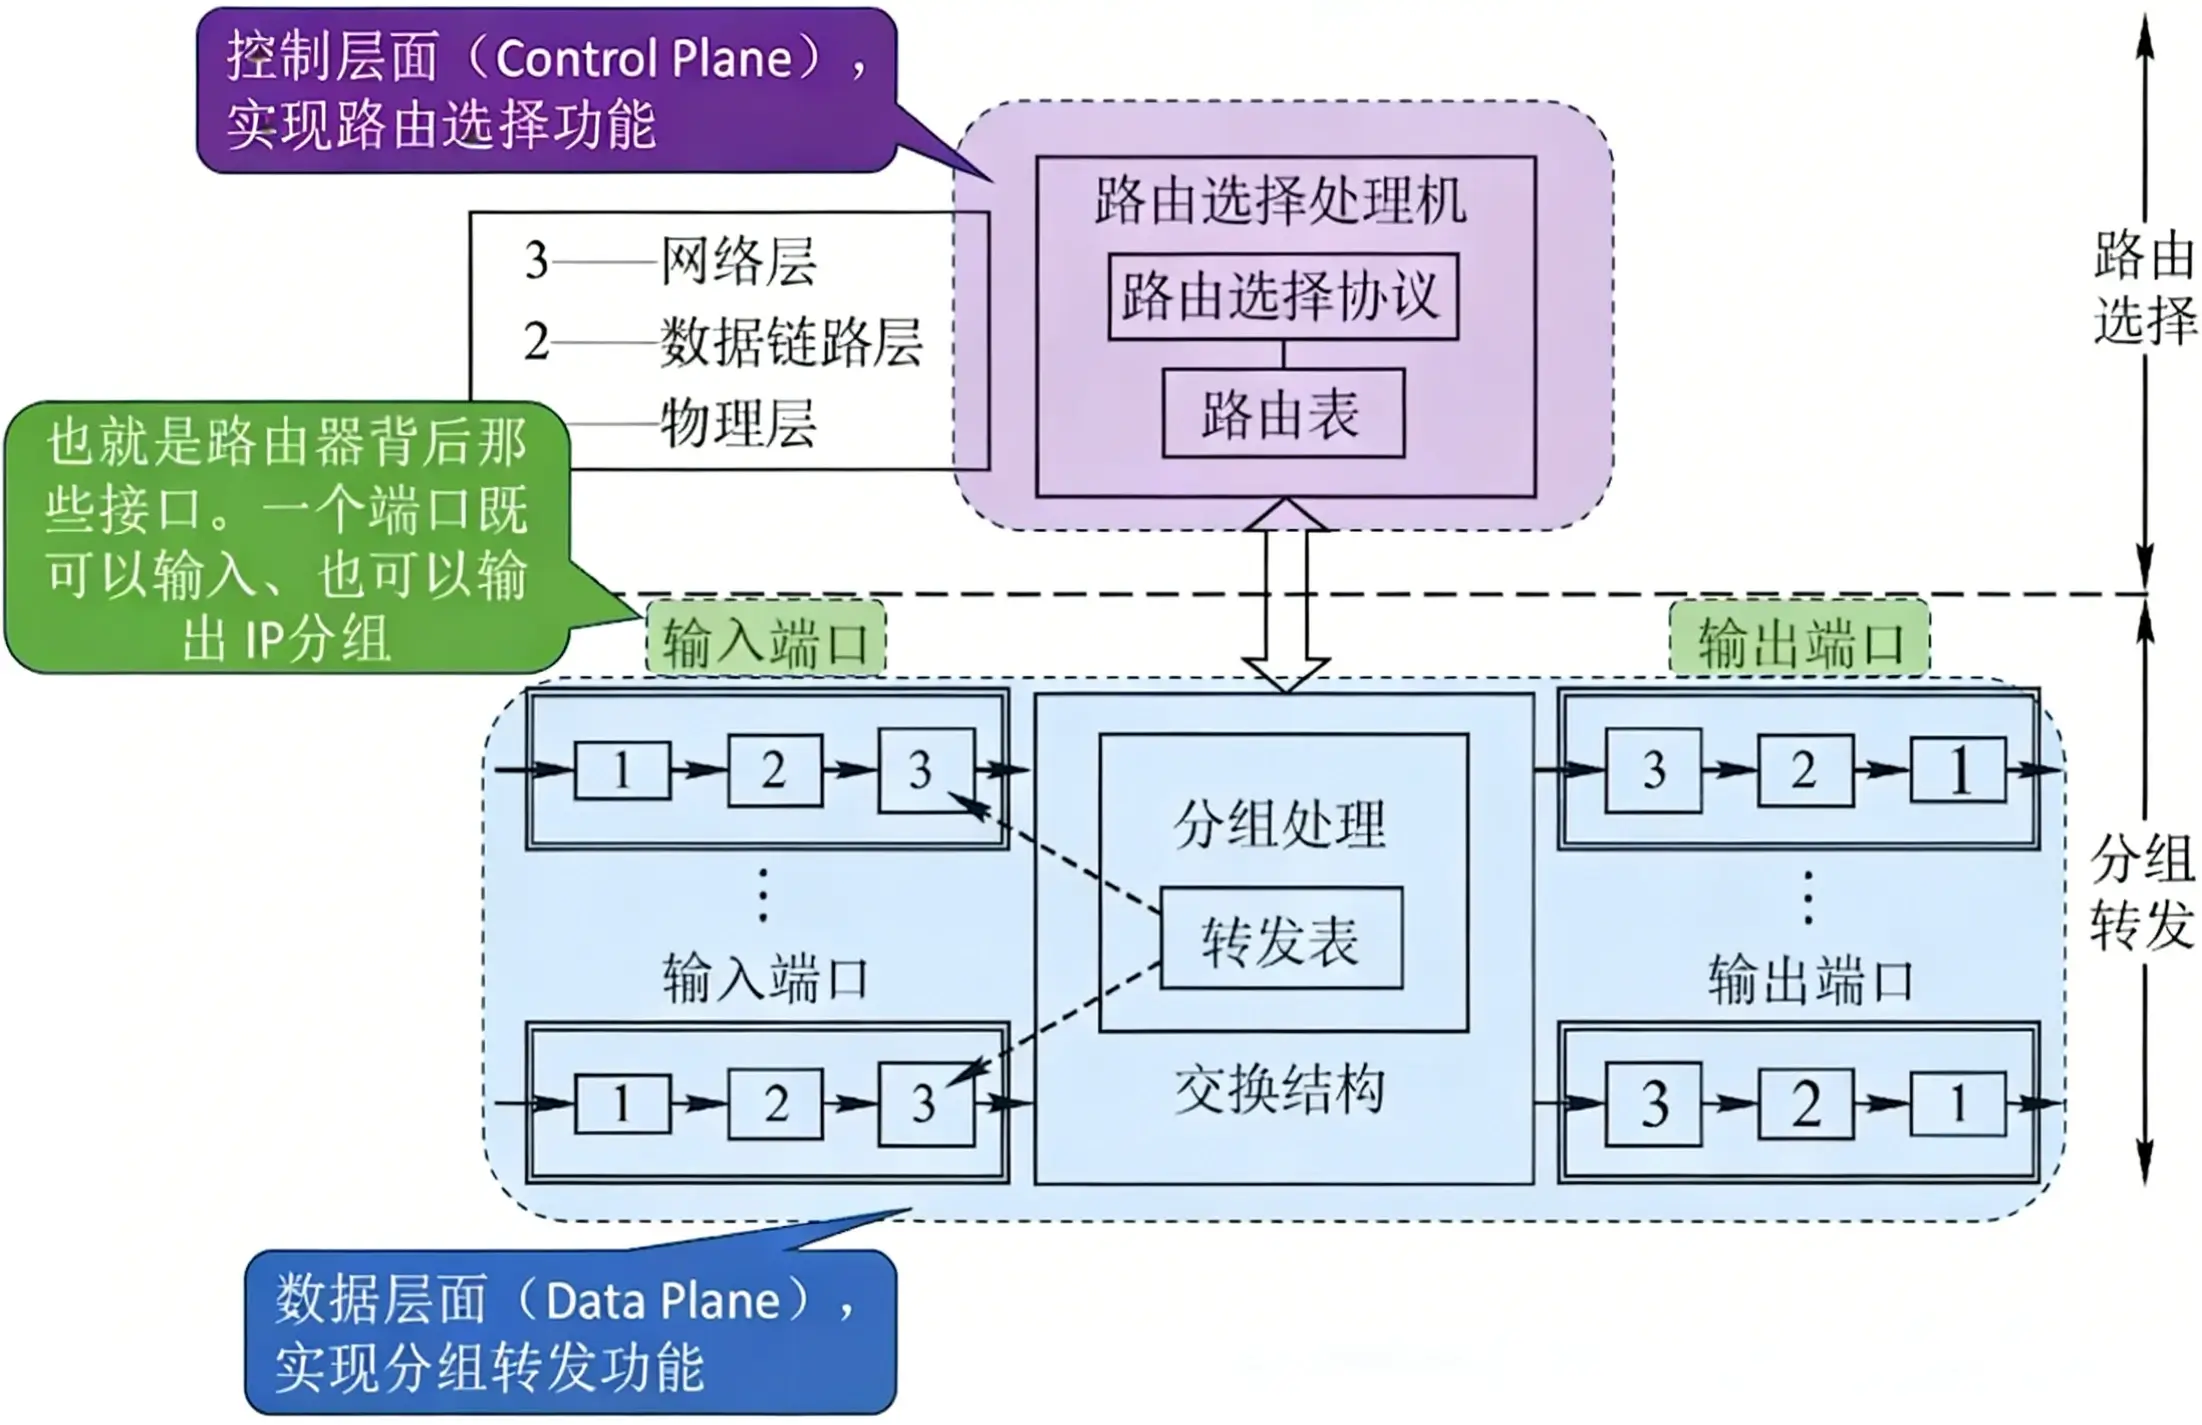
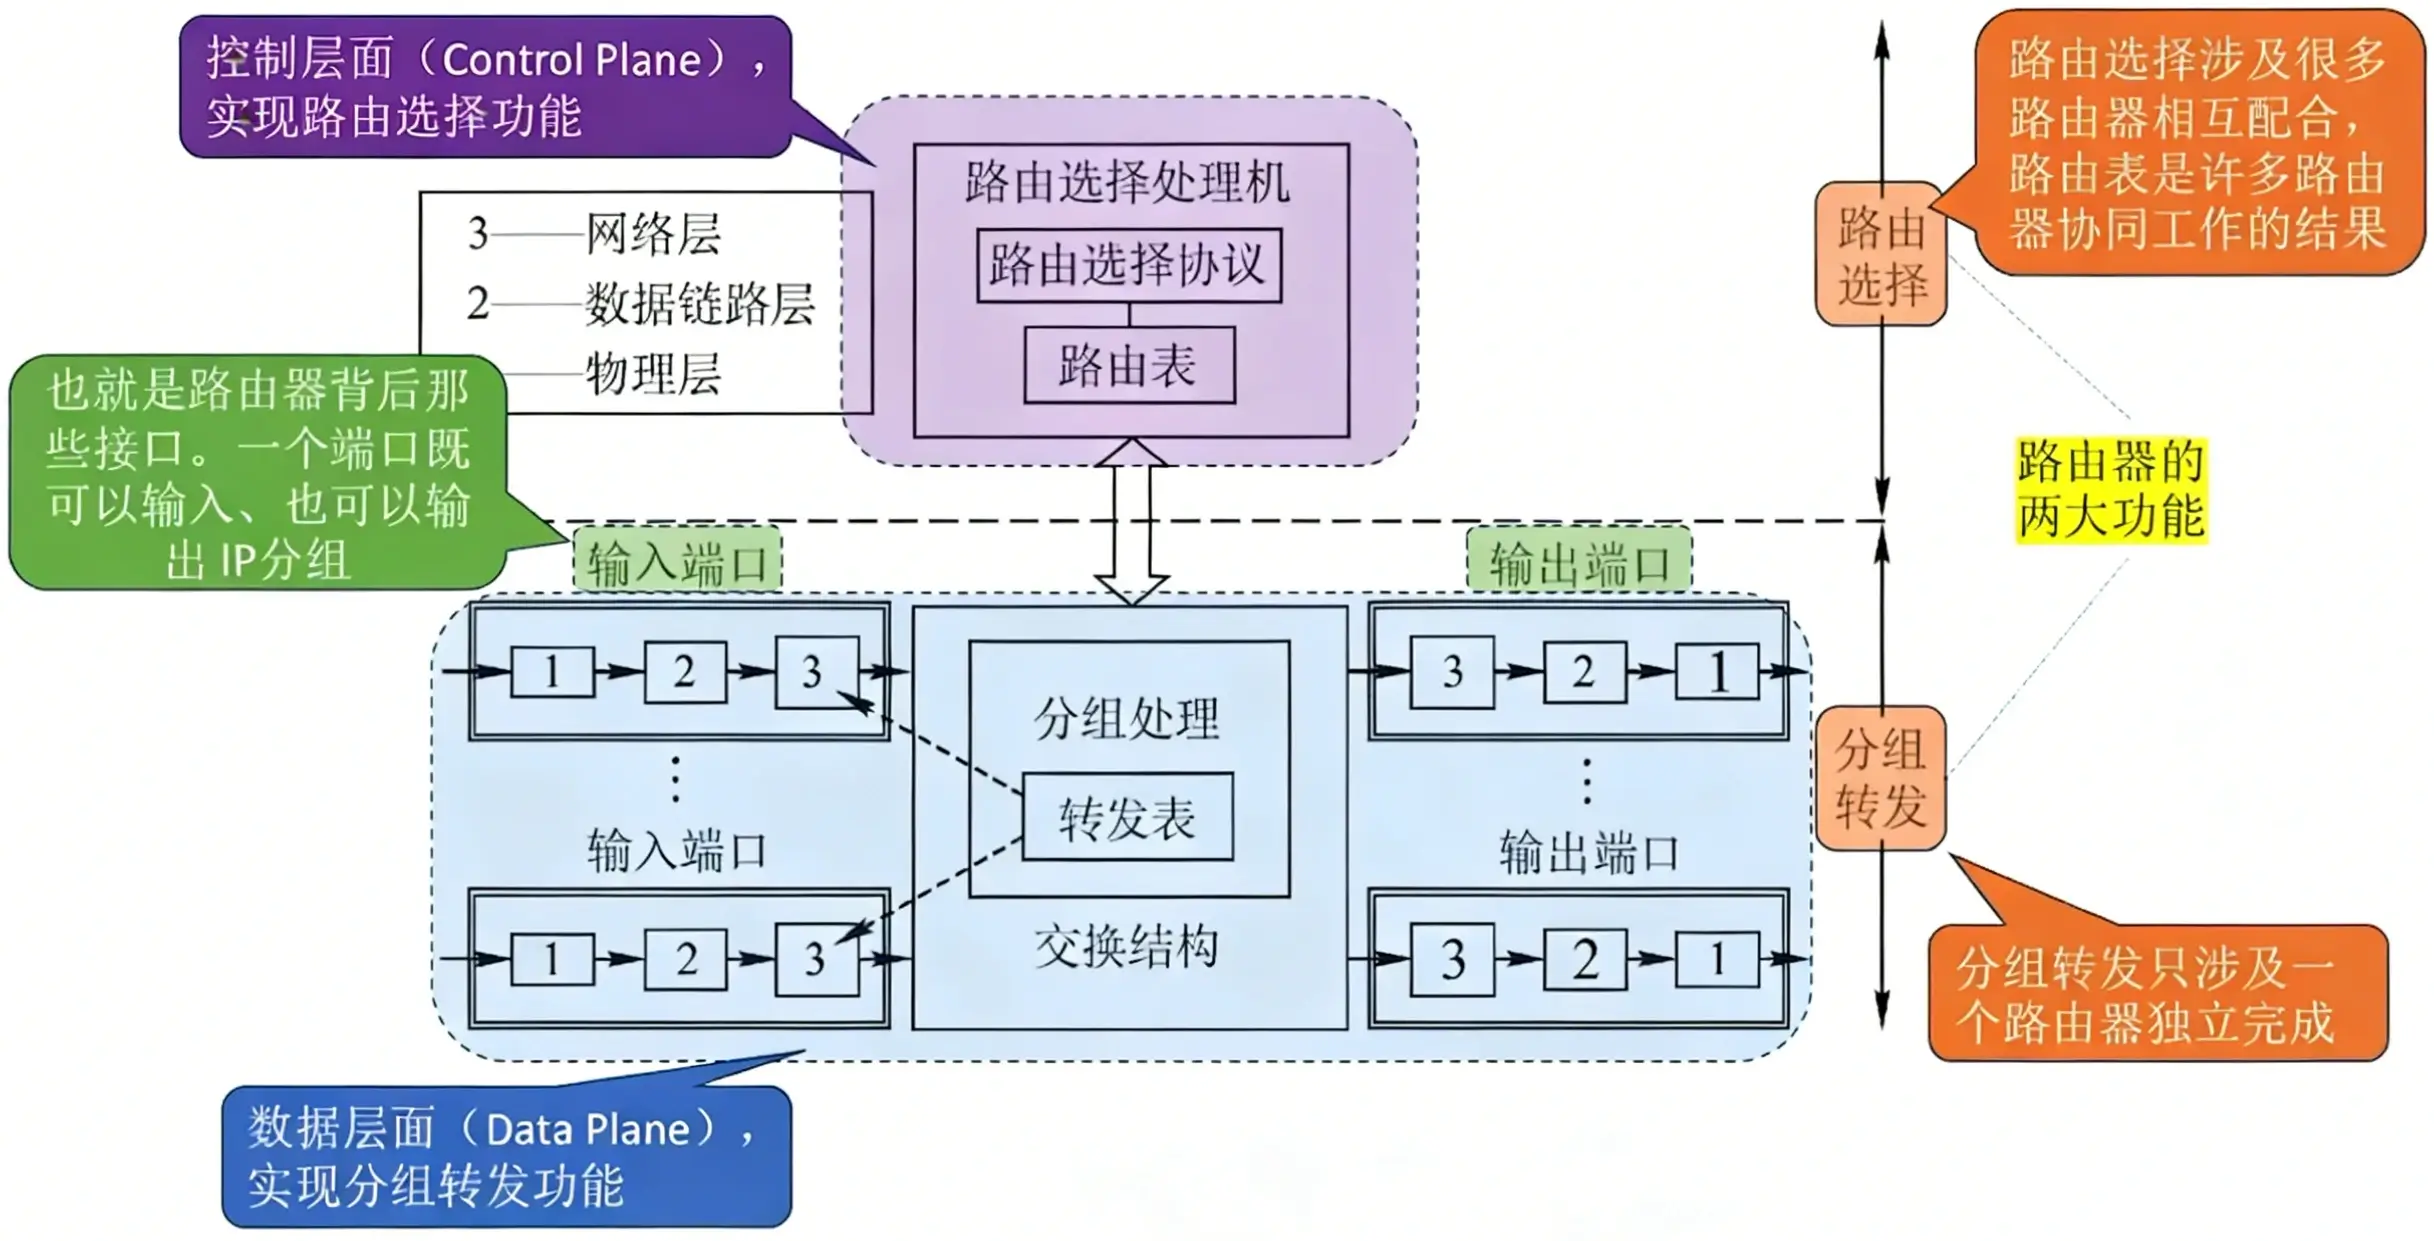
Update files

diff --git a/computer-network/04_网络层.md b/computer-network/04_网络层.md
@@ -1686,5 +1686,41 @@ IP 多播技术诞生于 20 世纪 80 年代末，最初主要应用于直播、
 
 ### 路由器的组成和功能
 
-<img src="../images/image-202601071633.webp" style="zoom:50%;" />
+<img src="../images/image-202601071633.webp" style="zoom: 33%;" />
 
+### 路由器的控制层面（Control Plane）
+
+<img src="../images/image-202601071705.webp" style="zoom: 33%;" />
+
+不同的路由协议生成的路由表条目字段略有区别。例如：
+
+- <span style="color:#E2852E; font-weight:bold">RIP</span> 生成的条目为 `[网络前缀, 下一跳 IP, 出接口, 跳数...]`。
+- <span style="color:#1581BF; font-weight:bold">OSPF</span> 生成的条目为 `[网络前缀, 下一跳 IP, 出接口, Cost, 区域...]`。
+- <span style="color:#62109F; font-weight:bold">BGP</span> 生成的条目为 `[网络前缀, 下一跳 IP, 出接口, AS_PATH, 本地偏好值...]`。
+
+<span style="color:#658C58; font-weight:bold">路由表表项至少包含 `[网络前缀, 下一跳 IP, 出接口]`。</span>
+
+典型的路由表结构如下：
+
+<img src="../images/image-202601071725.webp" style="zoom:50%;" />
+
+### 路由器的数据层面（Data Plane）
+
+- 每个输入输出网络层处理模块设有“<span style="color:#DC143C">输入缓冲区</span>”，用于暂存交换结构来不及处理的 IP 分组。若缓冲区慢，但仍有新的 IP 分组到达，则新分组丢失（发送网络拥塞）。
+- 每个输出端口网络层处理模块设有“<span style="color:#DC143C">输出缓冲区</span>”，用于暂存交换结构已处理（已确认输出端口），但是由于带宽显示暂时无法发送到链路上的 IP 分组。
+
+<img src="../images/image-202601071732.webp" style="zoom: 40%;" />
+
+### 路由表 vs. 转发表
+
+<img src="../images/image-202601071746.webp" style="zoom: 20%;" />
+
+严格来说，路由表（Routing Table）、转发表（Forwarding Table）是有区别的。
+
+但是<span style="color:#DC143C">在探讨路由选择时，通常不严格区分路由表、转发表，可以统称为“路由表”</span>。
+
+---
+
+**知识回顾**：
+
+<img src="../images/image-202601071749.webp" style="zoom: 67%;" />
